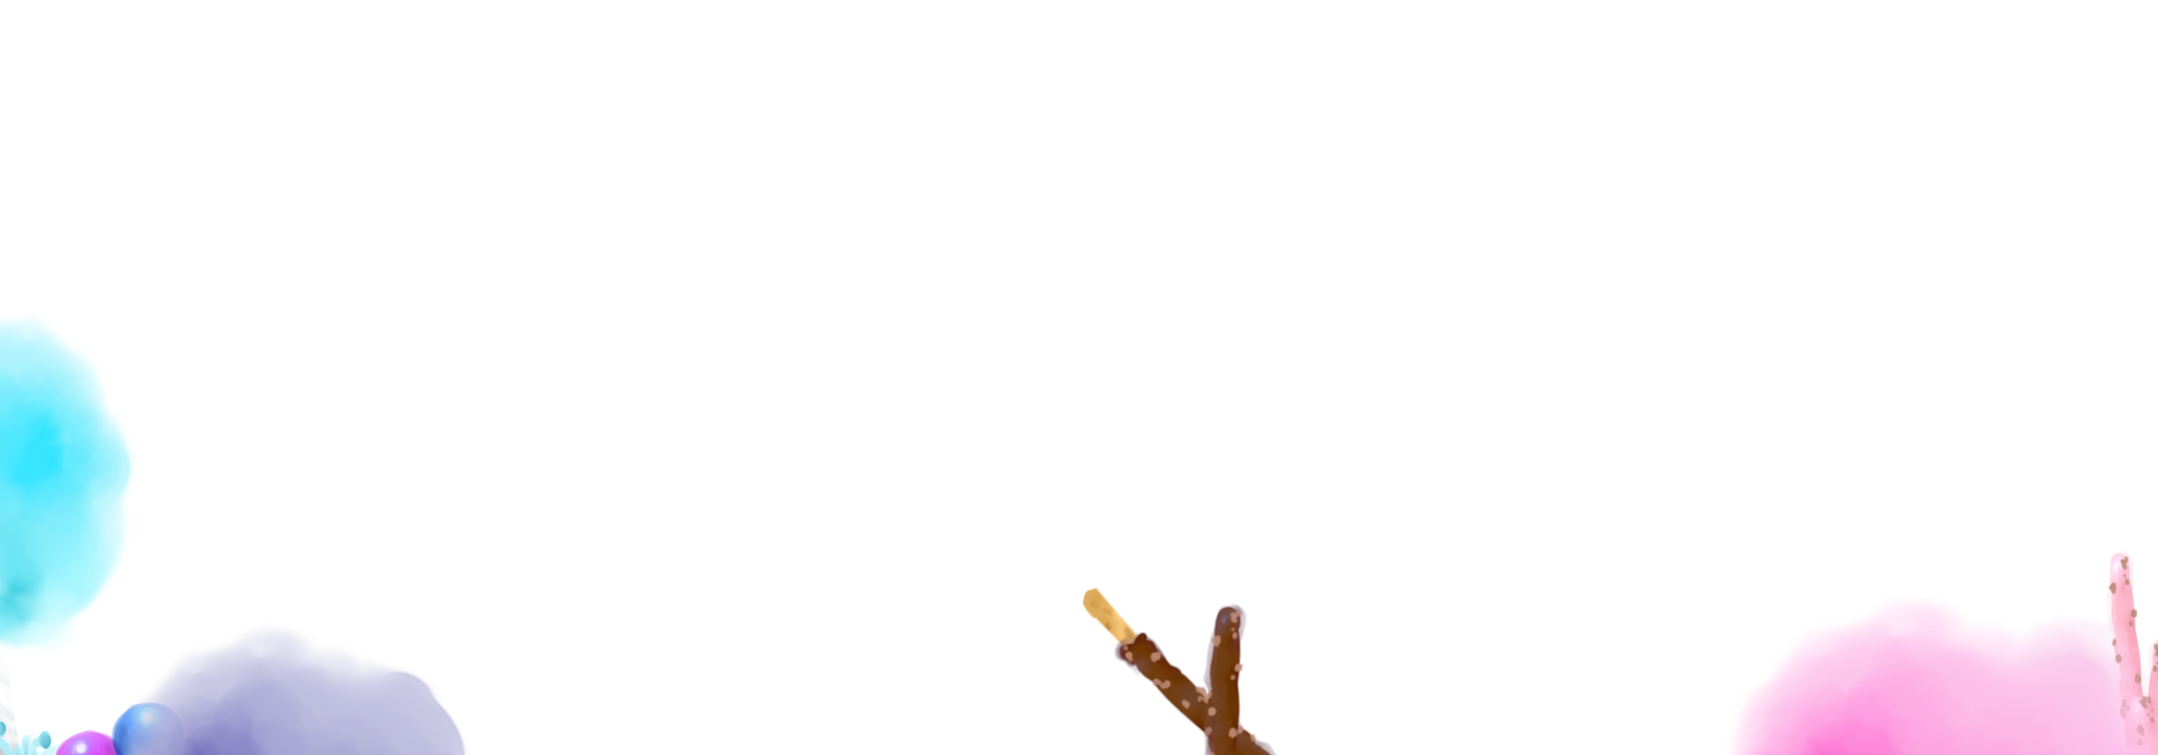
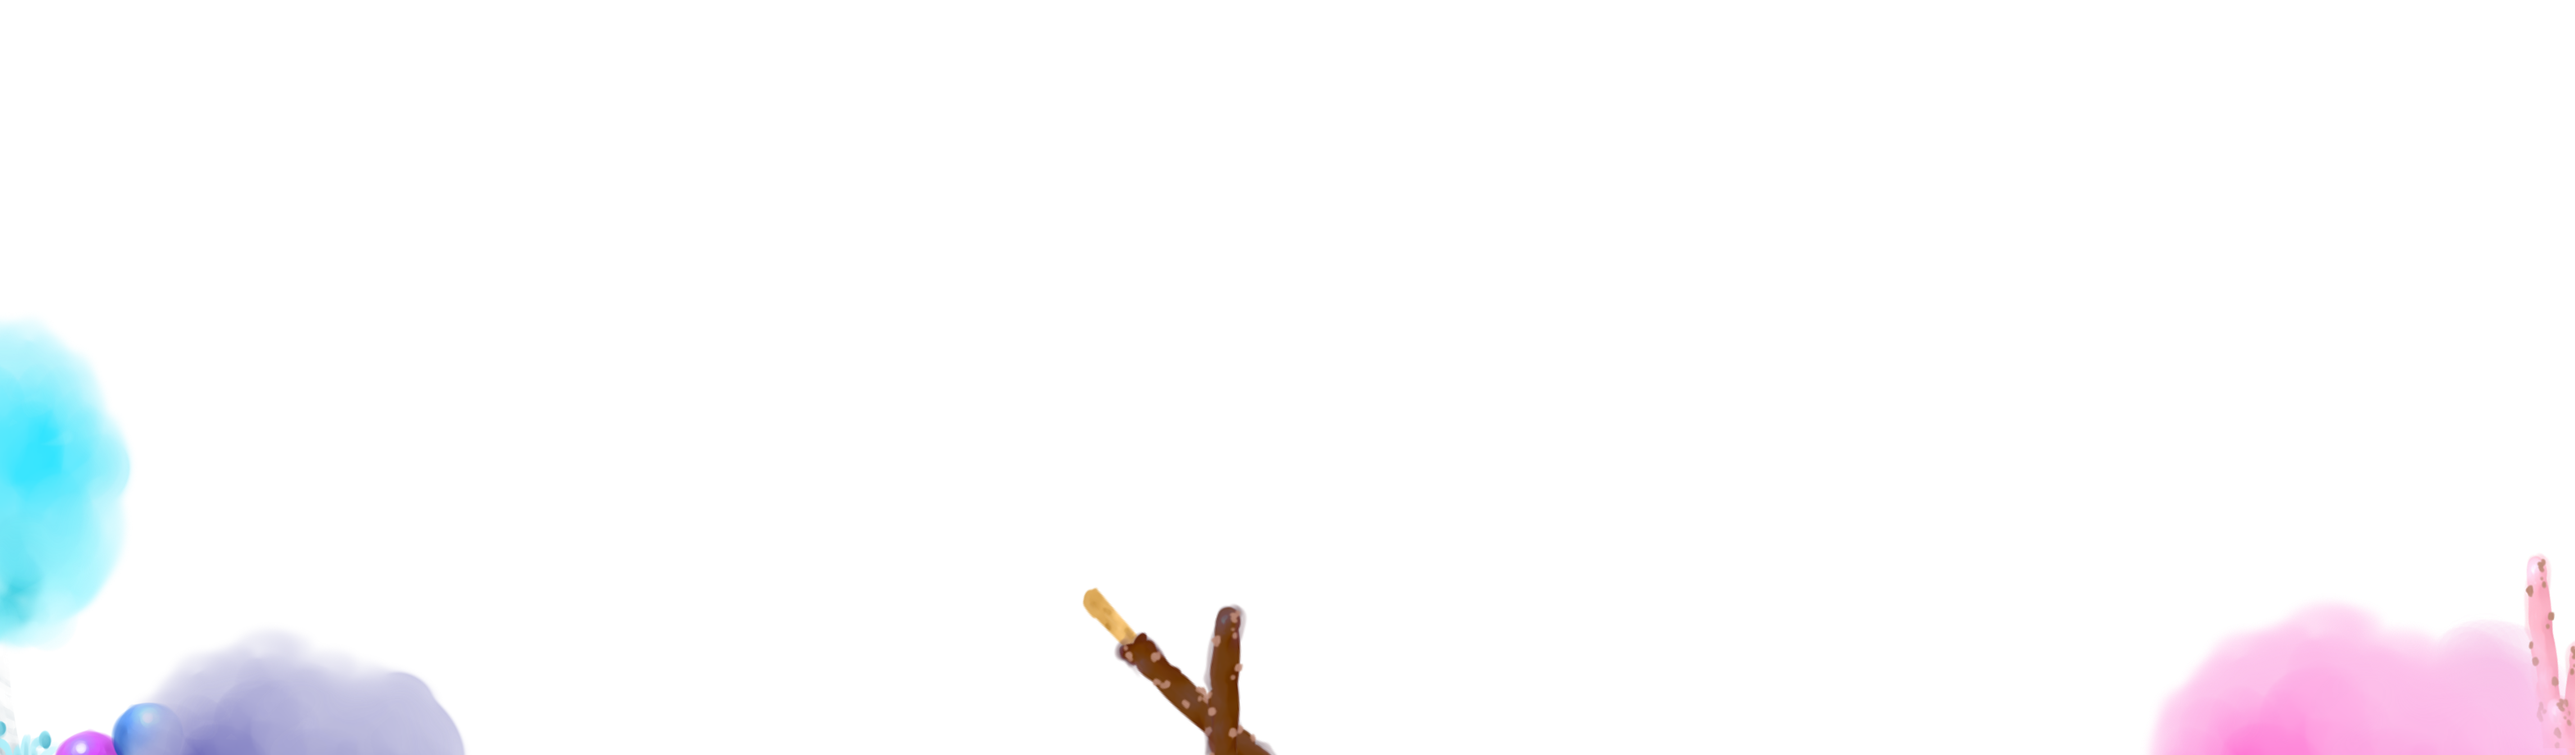
Implemented parallax background

diff --git a/src/maps/map_objects.cpp b/src/maps/map_objects.cpp
@@ -35,8 +35,32 @@ ECS::Entity DessertForeground::createDessertForeground(vec2 position)
 	entity.emplace<ShadedMeshRef>(resource);
 	entity.emplace<RenderableComponent>(RenderLayer::MAP_FOREGROUND);
 	entity.emplace<Motion>().position = position;
+	entity.emplace<ParallaxComponent>(vec2(1.3f, 1.15f));
 
 	entity.emplace<DessertForeground>();
+	return entity;
+};
+
+ECS::Entity DessertBackground::createDessertBackground(vec2 position)
+{
+	// There should only ever be one of this type of entity
+	while (!ECS::registry<DessertBackground>.entities.empty()) {
+		ECS::ContainerInterface::removeAllComponentsOf(ECS::registry<DessertBackground>.entities.back());
+	}
+
+	auto entity = ECS::Entity();
+
+	ShadedMesh& resource = cacheResource("dessertmap_background");
+	if (resource.effect.program.resource == 0)
+	{
+		RenderSystem::createSprite(resource, mapsPath("dessert-arena/dessert-arena-back.png"), "textured");
+	}
+	entity.emplace<ShadedMeshRef>(resource);
+	entity.emplace<RenderableComponent>(RenderLayer::MAP_BACKGROUND);
+	entity.emplace<Motion>().position = position;
+	entity.emplace<ParallaxComponent>(vec2(0.7f, 0.85f));
+
+	entity.emplace<DessertBackground>();
 	return entity;
 };
 
@@ -56,6 +80,7 @@ ECS::Entity BBQBackground::createBBQBackground(vec2 position)
 	entity.emplace<ShadedMeshRef>(resource);
 	entity.emplace<RenderableComponent>(RenderLayer::MAP_BACKGROUND);
 	entity.emplace<Motion>().position = position;
+	entity.emplace<ParallaxComponent>(vec2(0.6f, 0.6f));
 
 	entity.emplace<BBQBackground>();
 	return entity;

diff --git a/src/game/game_state_system.cpp b/src/game/game_state_system.cpp
@@ -412,7 +412,8 @@ void GameStateSystem::createMap(int frameBufferWidth, int frameBufferHeight)
 	{
 		EventSystem<PlayMusicEvent>::instance().sendEvent({MusicType::DESSERT_ARENA});
 
-		DessertForeground::createDessertForeground(vec2(1920.f, 672.f));
+		DessertForeground::createDessertForeground(vec2(2291.f, 772.f));
+		DessertBackground::createDessertBackground(vec2(1920.f, 672.f));
 		EventSystem<AddEmitterEvent>::instance().sendEvent(
 				AddEmitterEvent{ "pinkCottonCandy",std::make_shared<BasicEmitter>(BasicEmitter(5)) });
 		EventSystem<AddEmitterEvent>::instance().sendEvent(
@@ -426,7 +427,7 @@ void GameStateSystem::createMap(int frameBufferWidth, int frameBufferHeight)
 	{
 		EventSystem<PlayMusicEvent>::instance().sendEvent({MusicType::BOSS});
 
-		BBQBackground::createBBQBackground(vec2(1120.f, 720.f));
+		BBQBackground::createBBQBackground(vec2(960.f, 720.f));
 		BBQFire::createBBQFire(vec2(2153.f, 1015.f));
 		BBQFire::createBBQFire(vec2(1378.f, 1403.f));
 		BBQFire::createBBQFire(vec2(41.f, 1264.f));

diff --git a/src/rendering/render.cpp b/src/rendering/render.cpp
@@ -10,6 +10,7 @@
 #include "ui/ui_entities.hpp"
 #include "game/camera.hpp"
 #include "game/game_state_system.hpp"
+#include "maps/map_objects.hpp"
 
 #include <iostream>
 
@@ -27,7 +28,14 @@ void RenderSystem::drawTexturedMesh(ECS::Entity entity, const mat3& projection)
 	else {
 			auto camera = ECS::registry<CameraComponent>.entities[0];
 			auto& cameraComponent = camera.get<CameraComponent>();
-			transform.translate(motion.renderPosition - cameraComponent.position);
+			// Multiply camera positon by scroll rate for parallax entities
+			if (entity.has<ParallaxComponent>()) {
+				auto& parallaxComponent = entity.get<ParallaxComponent>();
+				transform.translate(motion.renderPosition - cameraComponent.position * parallaxComponent.scrollRate);
+			}
+			else {
+				transform.translate(motion.renderPosition - cameraComponent.position);
+			}
 	}
 	transform.rotate(motion.renderAngle);
 

diff --git a/src/maps/map_objects.hpp b/src/maps/map_objects.hpp
@@ -13,6 +13,16 @@ struct DessertForeground
 	static ECS::Entity createDessertForeground(vec2 position);
 };
 
+struct DessertBackground
+{
+	static ECS::Entity createDessertBackground(vec2 position);
+};
+
 struct BBQBackground { static ECS::Entity createBBQBackground(vec2 position); };
 
 struct BBQFire { static ECS::Entity createBBQFire(vec2 position, RenderLayer layer = RenderLayer::MAP_FOREGROUND, vec2 scale = vec2(1.f)); };
+
+struct ParallaxComponent {
+	ParallaxComponent(vec2 scrollRate) : scrollRate{ scrollRate } {}
+	vec2 scrollRate = { 1.f, 1.f };
+};
